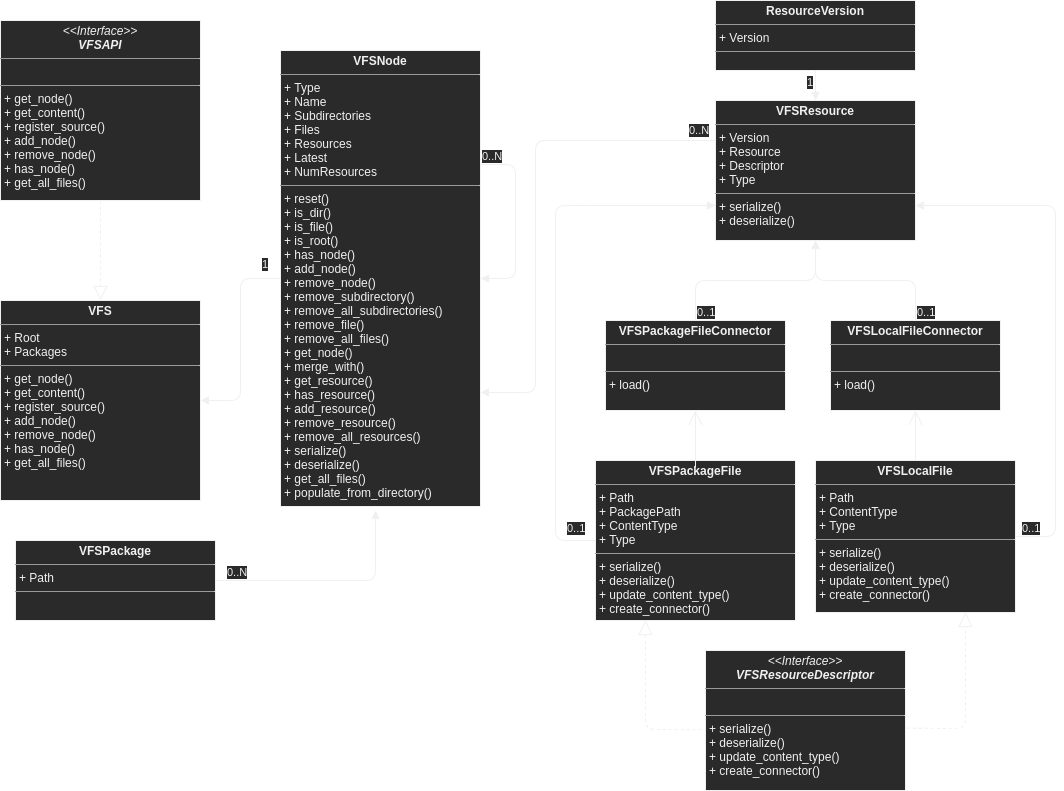
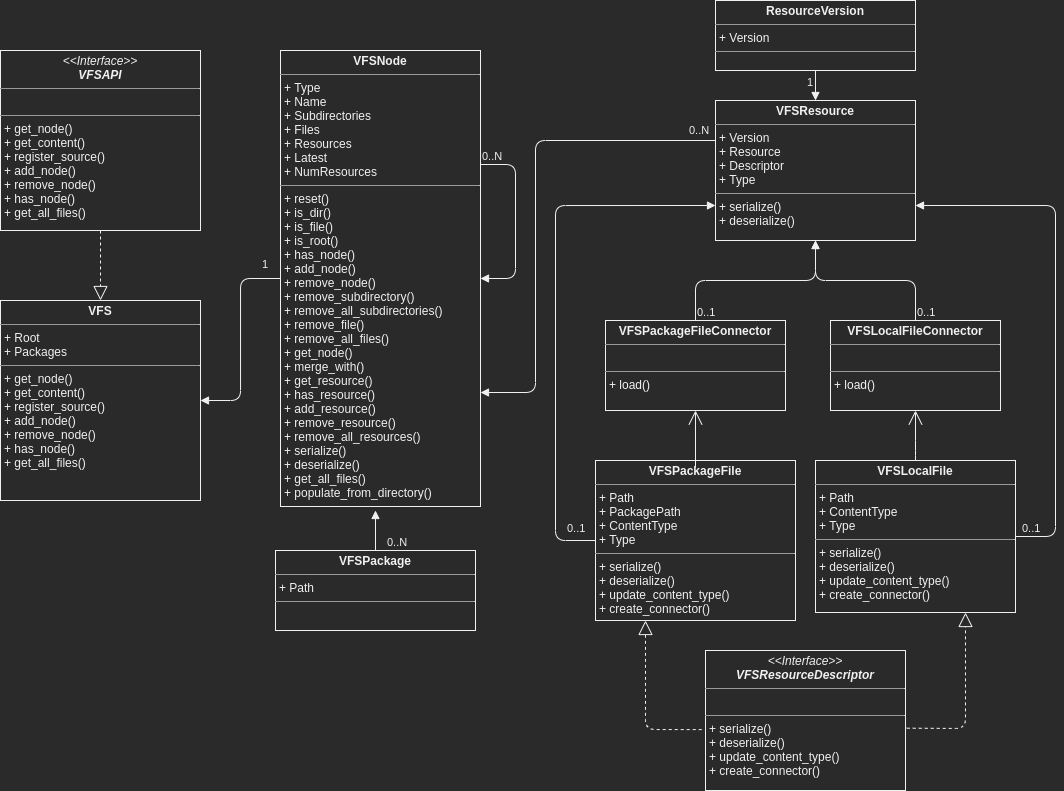
Documentation updates.

diff --git a/doc/index.rst b/doc/index.rst
@@ -59,7 +59,7 @@ Getting Started
 Requirements
 -----------------------------------------
 
-Murasame is a framework that requires Python version 3.8 or newer, and it is
+Murasame is a framework that requires Python version 3.9 or newer, and it is
 not compatible with Python 2.
 
 Applications developed with the framework are primarily meant to be run on a

diff --git a/doc/vfs.rst b/doc/vfs.rst
@@ -1,0 +1,7 @@
+Virtual File System
+============================================
+
+.. image:: ./diagrams/vfs_class_diagram.png
+   :width: 1200px
+   :alt: VFS Class Diagram
+   :align: center

diff --git a/doc/architecture.rst b/doc/architecture.rst
@@ -1,2 +1,10 @@
 Architecture
 =========================================
+
+Virtual File System
+-----------------------------------------
+
+.. toctree::
+    :maxdepth: 2
+
+    vfs
